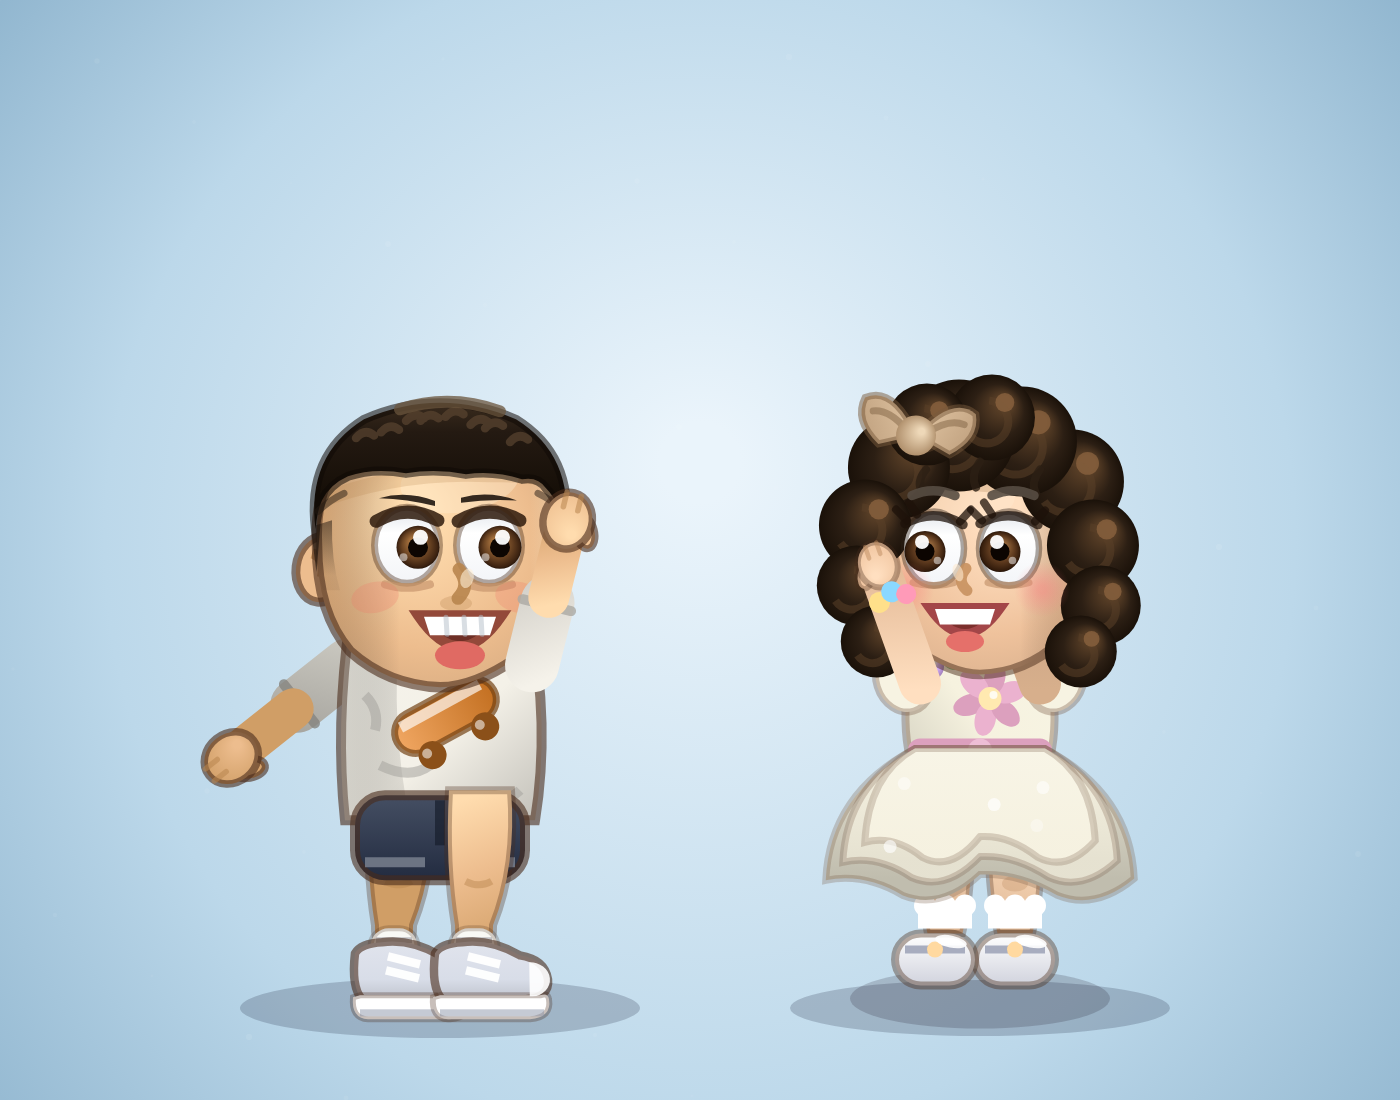
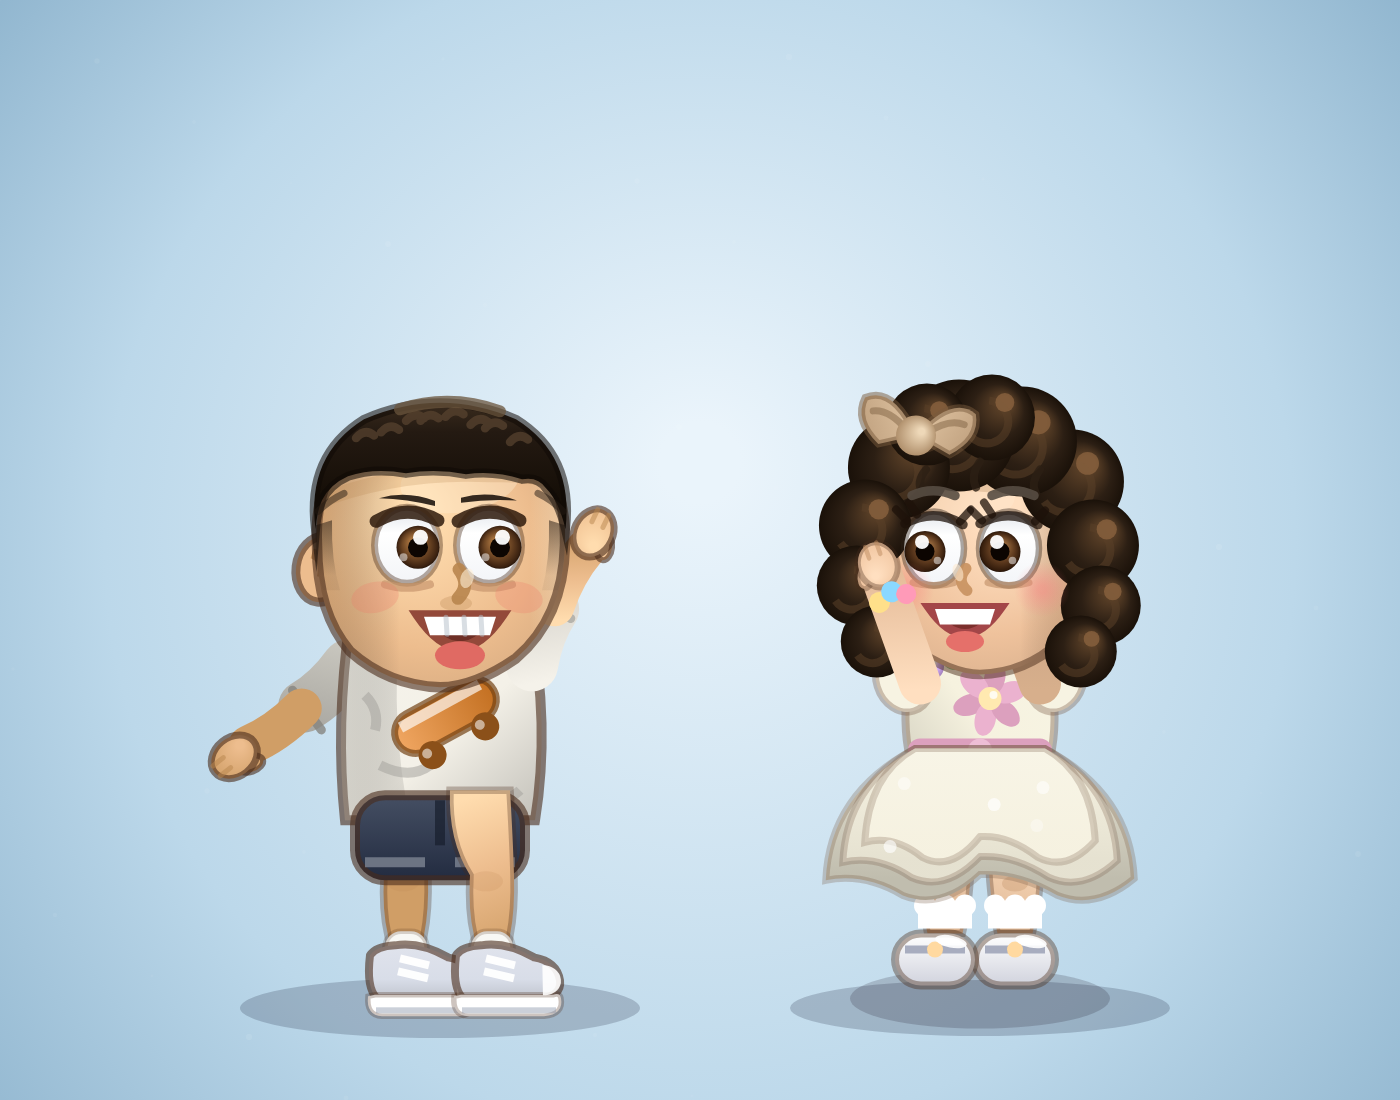
Limbs v4: natural rest pose, elbow and knee joints
- Idle arms hang nearly vertical beside the torso (was a splayed
  scarecrow stance), with breathing sway
- Arms rebuilt as curved two-segment paths: sleeve bows slightly
  outward, forearm curves back under the shoulder (elbow), vertical
  oval hands with integrated thumb and two finger creases
- Legs rebuilt with a knee joint: thigh angles slightly forward,
  shin returns to a rounded ankle; consistent forward ankle offsets
  so the feet stay separated instead of colliding mid-stance
- Soft knee shading only (removed crease line), snug sock cuffs,
  slimmer sculpted sneakers aligned to the ankle
- Raised/celebration arm angles widened past the head silhouette;
  raised arms render behind the head, only attack/shoot/slam/dash
  render in front

Claude-Session: https://claude.ai/code/session_01WV3PCMXxFaSr6jYfzUPyqs

Changed region(s): [[0.2457, 0.7418, 0.3993, 0.9273], [0.3379, 0.4327, 0.4607, 0.6182], [0.1229, 0.5873, 0.2457, 0.7109]]

diff --git a/js/game/characters.js b/js/game/characters.js
@@ -40,9 +40,8 @@ window.RN = window.RN || {};
       case 'idle':
         p.breath = s(t * 2.1) * 0.5 + 0.5;
         p.bob = s(t * 2.1) * 1.3;
-        // ذراعان منفرجتان قليلًا عن الجسم مع تأرجح التنفس
-        // (الزاوية السالبة تلف الذراع الأمامية للخارج)
-        p.armA = -(s(t * 2.1) * 0.05 + 0.3); p.armB = s(t * 2.1) * 0.05 + 0.3;
+        // ذراعان تتدليان عموديًا بجوار الجسم مع تأرجح تنفس خفيف
+        p.armA = -(s(t * 2.1) * 0.04 + 0.09); p.armB = s(t * 2.1) * 0.04 + 0.09;
         if ((t % 3.4) > 3.25) p.eyes = 'blink';
         break;
       case 'walk':
@@ -65,13 +64,10 @@ window.RN = window.RN || {};
       case 'fall':
         p.legA = 0.3; p.legB = -0.25; p.armA = -2.2; p.armB = -2.2; p.mouth = 'open'; p.hairSway = -1; break;
       case 'doubleJump':
-        p.armFront = true;
         p.legA = 0.9; p.legB = -0.9; p.armA = -2.8; p.armB = 2.8; p.mouth = 'open'; p.hairSway = -0.8; break;
       case 'wallSlide':
-        p.armFront = true;
         p.legA = 0.4; p.legB = 0.2; p.armA = -1.6; p.armB = 0.3; p.lean = -0.15; p.hairSway = -0.5; break;
       case 'climb':
-        p.armFront = true;
         p.legA = s(t * 7) * 0.5; p.legB = -p.legA;
         p.armA = -2.6 + s(t * 7) * 0.4; p.armB = -2.6 - s(t * 7) * 0.4; break;
       case 'dash':
@@ -90,26 +86,21 @@ window.RN = window.RN || {};
         p.armA = -1.57; p.armB = 0.3; p.lean = 0.08; p.mouth = 'grit'; break;
       case 'slam':
         p.armFront = true;
-        p.legA = 0.8; p.legB = 0.8; p.armA = -2.9; p.armB = -2.9; p.mouth = 'grit'; p.hairSway = -1.2; break;
+        p.legA = 0.8; p.legB = 0.8; p.armA = -2.8; p.armB = -2.8; p.mouth = 'grit'; p.hairSway = -1.2; break;
       case 'glide':
-        p.armFront = true;
-        p.legA = 0.35; p.legB = 0.15; p.armA = -3.0; p.armB = -3.0; p.mouth = 'open'; p.hairSway = -0.7; break;
+        p.legA = 0.35; p.legB = 0.15; p.armA = -2.85; p.armB = -2.85; p.mouth = 'open'; p.hairSway = -0.7; break;
       case 'hurt':
-        p.armFront = true;
         p.legA = -0.4; p.legB = 0.5; p.armA = -2.0; p.armB = 2.0; p.lean = -0.25; p.mouth = 'sad'; p.eyes = 'shut'; break;
       case 'death':
-        p.armFront = true;
         p.crouch = 0.7; p.armA = 0.9; p.armB = -0.9; p.mouth = 'sad'; p.eyes = 'shut'; break;
       case 'victory': {
-        p.armFront = true;
         const hop = Math.abs(s(t * 6)) * 5;
-        p.bob = -hop; p.armA = -2.9 + s(t * 6) * 0.2; p.armB = -2.9 - s(t * 6) * 0.2;
+        p.bob = -hop; p.armA = -2.74 + s(t * 6) * 0.15; p.armB = -2.74 - s(t * 6) * 0.15;
         p.legA = s(t * 6) * 0.2; p.mouth = 'grin';
         break;
       }
       case 'celebrate':
-        p.armFront = true;
-        p.armA = -2.9; p.armB = 0.9; p.bob = Math.abs(s(t * 5)) * 3; p.mouth = 'grin'; p.breath = s(t * 2) * 0.5 + 0.5; break;
+        p.armA = -2.7; p.armB = 0.9; p.bob = Math.abs(s(t * 5)) * 3; p.mouth = 'grin'; p.breath = s(t * 2) * 0.5 + 0.5; break;
       default: break;
     }
     return p;
@@ -234,33 +225,31 @@ window.RN = window.RN || {};
     ctx.save();
     ctx.translate(ox, oy);
     ctx.rotate(ang * 0.6);
-    const ax = ang > 0 ? 2.2 : -0.6; // موضع الكاحل
-    // ساق انسيابية: فخذ أعرض ينساب لكاحل أنحف (بلا زوايا)
+    // الكاحل أمام الورك قليلًا دائمًا (يمنع تزاحم القدمين في المنتصف)
+    const ax = front ? 1.2 : 0.6;
+    // ساق بمفصل ركبة: فخذ يميل قليلًا للأمام ثم قصبة تعود للكاحل
     ctx.fillStyle = front ? skinGrad(ctx, -3, 0, 3, 15) : SKIN_SHADE;
     ctx.beginPath();
-    ctx.moveTo(-3.1, -1.5);
-    ctx.quadraticCurveTo(-3.5, 6, ax - 1.9, 12);
-    ctx.quadraticCurveTo(ax - 2.0, 14.6, ax, 14.8);
-    ctx.quadraticCurveTo(ax + 2.0, 14.6, ax + 1.9, 12);
-    ctx.quadraticCurveTo(3.7, 6, 3.1, -1.5);
+    ctx.moveTo(-3.0, -1.5);
+    ctx.quadraticCurveTo(-3.2, 3.5, ax - 2.2, 7);      // خارج الفخذ حتى الركبة
+    ctx.quadraticCurveTo(ax - 2.4, 10.5, ax - 1.8, 13); // قصبة
+    ctx.quadraticCurveTo(ax - 1.7, 14.8, ax, 15);       // كاحل مستدير
+    ctx.quadraticCurveTo(ax + 1.7, 14.8, ax + 1.8, 13);
+    ctx.quadraticCurveTo(ax + 2.3, 10.5, ax + 2.2, 7);
+    ctx.quadraticCurveTo(3.3, 3.5, 3.0, -1.5);
     ctx.closePath();
     ctx.fill();
-    ctx.strokeStyle = 'rgba(74,44,26,0.32)'; ctx.lineWidth = 0.8;
+    ctx.strokeStyle = 'rgba(74,44,26,0.3)'; ctx.lineWidth = 0.75;
     ctx.stroke();
-    // ثنية الركبة: خط رقيق فقط
-    ctx.strokeStyle = U.alpha(SKIN_DEEP, 0.45); ctx.lineWidth = 0.7;
-    ctx.beginPath();
-    ctx.moveTo(ax * 0.4 - 1.2, 7.6);
-    ctx.quadraticCurveTo(ax * 0.4 + 0.2, 8.3, ax * 0.4 + 1.4, 7.6);
-    ctx.stroke();
-    // جورب قصير يلتف حول الكاحل ويلتقي بالحذاء
+    // ظل ركبة ناعم جدًا (بلا خطوط)
+    ctx.fillStyle = U.alpha(SKIN_DEEP, 0.16);
+    ctx.beginPath(); ctx.ellipse(ax * 0.5, 7.6, 1.7, 1.0, 0, 0, 7); ctx.fill();
+    // جورب قصير
     ctx.fillStyle = '#f8f8f4';
-    U.roundRect(ctx, ax - 2.35, 12.3, 4.7, 3.6, 1.9); ctx.fill();
-    ctx.strokeStyle = 'rgba(74,44,26,0.22)'; ctx.lineWidth = 0.6;
-    U.roundRect(ctx, ax - 2.35, 12.3, 4.7, 3.6, 1.9); ctx.stroke();
-    ctx.strokeStyle = 'rgba(150,150,160,0.55)'; ctx.lineWidth = 0.6;
-    ctx.beginPath(); ctx.moveTo(ax - 1.8, 13.5); ctx.lineTo(ax + 1.8, 13.5); ctx.stroke();
-    // حذاء رياضي (يلتقم الكاحل)
+    U.roundRect(ctx, ax - 2.1, 12.6, 4.2, 3.2, 1.7); ctx.fill();
+    ctx.strokeStyle = 'rgba(74,44,26,0.2)'; ctx.lineWidth = 0.55;
+    U.roundRect(ctx, ax - 2.1, 12.6, 4.2, 3.2, 1.7); ctx.stroke();
+    // حذاء رياضي منحوت
     ctx.save();
     ctx.translate(ax, 17);
     const shg = ctx.createLinearGradient(0, -3.5, 0, 3);
@@ -269,39 +258,39 @@ window.RN = window.RN || {};
     shg.addColorStop(1, U.shade(o.shoes, -0.15));
     ctx.fillStyle = shg;
     ctx.beginPath();
-    ctx.moveTo(-3.9, -2.2);
-    ctx.quadraticCurveTo(-4.3, 1.2, -3.2, 2.4);   // كعب
-    ctx.lineTo(5.2, 2.4);
-    ctx.quadraticCurveTo(7.6, 2.2, 7.4, 0.4);     // مقدمة مستديرة
-    ctx.quadraticCurveTo(7.1, -1.6, 4.6, -2.0);
-    ctx.quadraticCurveTo(1.6, -3.7, -1.2, -3.3);  // لسان الحذاء
-    ctx.quadraticCurveTo(-3.3, -3.2, -3.9, -2.2);
+    ctx.moveTo(-3.6, -2.0);
+    ctx.quadraticCurveTo(-4.0, 1.3, -2.9, 2.3);
+    ctx.lineTo(4.8, 2.3);
+    ctx.quadraticCurveTo(7.0, 2.1, 6.8, 0.5);
+    ctx.quadraticCurveTo(6.5, -1.4, 4.2, -1.8);
+    ctx.quadraticCurveTo(1.4, -3.4, -1.1, -3.0);
+    ctx.quadraticCurveTo(-3.0, -2.9, -3.6, -2.0);
     ctx.closePath();
     ctx.fill();
-    ctx.strokeStyle = LINE; ctx.lineWidth = 0.85;
+    ctx.strokeStyle = LINE; ctx.lineWidth = 0.8;
     ctx.stroke();
-    // نعل أبيض مزدوج
+    // نعل أبيض
     ctx.fillStyle = '#ffffff';
     ctx.beginPath();
-    ctx.moveTo(-4.1, 2.2);
-    ctx.quadraticCurveTo(-4.3, 4.3, -2.6, 4.4);
-    ctx.lineTo(5.6, 4.4);
-    ctx.quadraticCurveTo(7.8, 4.2, 7.5, 2.4);
-    ctx.quadraticCurveTo(7.4, 1.7, 6.6, 2.0);
-    ctx.lineTo(-3.4, 2.0);
+    ctx.moveTo(-3.8, 2.1);
+    ctx.quadraticCurveTo(-4.0, 4.0, -2.4, 4.1);
+    ctx.lineTo(5.2, 4.1);
+    ctx.quadraticCurveTo(7.2, 3.9, 6.9, 2.3);
+    ctx.quadraticCurveTo(6.8, 1.7, 6.1, 1.95);
+    ctx.lineTo(-3.1, 1.95);
     ctx.closePath();
     ctx.fill();
-    ctx.strokeStyle = 'rgba(74,44,26,0.3)'; ctx.lineWidth = 0.6;
+    ctx.strokeStyle = 'rgba(74,44,26,0.28)'; ctx.lineWidth = 0.55;
     ctx.stroke();
-    ctx.fillStyle = 'rgba(140,150,170,0.5)';
-    ctx.fillRect(-3.4, 3.4, 10.4, 0.7);
+    ctx.fillStyle = 'rgba(140,150,170,0.45)';
+    ctx.fillRect(-3.0, 3.2, 9.4, 0.6);
     // مقدمة مطاطية + أربطة
     ctx.fillStyle = 'rgba(255,255,255,0.9)';
-    ctx.beginPath(); ctx.ellipse(5.7, 0.4, 1.9, 1.7, 0.15, -1.8, 1.5); ctx.fill();
-    ctx.strokeStyle = 'rgba(255,255,255,0.95)'; ctx.lineWidth = 0.85;
+    ctx.beginPath(); ctx.ellipse(5.2, 0.5, 1.7, 1.5, 0.15, -1.8, 1.5); ctx.fill();
+    ctx.strokeStyle = 'rgba(255,255,255,0.95)'; ctx.lineWidth = 0.8;
     ctx.beginPath();
-    ctx.moveTo(-0.6, -1.9); ctx.lineTo(2.6, -1.1);
-    ctx.moveTo(-0.8, -0.5); ctx.lineTo(2.5, 0.3);
+    ctx.moveTo(-0.6, -1.7); ctx.lineTo(2.3, -1.0);
+    ctx.moveTo(-0.8, -0.4); ctx.lineTo(2.2, 0.3);
     ctx.stroke();
     ctx.restore();
     ctx.restore();
@@ -311,53 +300,62 @@ window.RN = window.RN || {};
     ctx.save();
     ctx.translate(ox, oy);
     ctx.rotate(ang);
-    // كم بحافة مطوية
+    const side = front ? 1 : 1; // الانحناء في فضاء الذراع المحلي
+    // كم القميص: يتقوس قليلًا للخارج
     const sg = ctx.createLinearGradient(-3, 0, 3, 8);
     sg.addColorStop(0, front ? U.shade(o.shirt, 0.1) : U.shade(o.shirt, -0.18));
     sg.addColorStop(1, front ? U.shade(o.shirt, -0.14) : U.shade(o.shirt, -0.32));
     ctx.strokeStyle = sg;
-    ctx.lineWidth = 5.4; ctx.lineCap = 'round';
-    ctx.beginPath(); ctx.moveTo(0, 0); ctx.lineTo(0, 6.5); ctx.stroke();
+    ctx.lineWidth = 5.2; ctx.lineCap = 'round';
+    ctx.beginPath();
+    ctx.moveTo(0, 0);
+    ctx.quadraticCurveTo(0.9 * side, 3.2, 0.5 * side, 6.0);
+    ctx.stroke();
+    // حافة الكم
     ctx.strokeStyle = front ? U.alpha(U.shade(o.shirt, -0.3), 0.8) : U.alpha(U.shade(o.shirt, -0.45), 0.8);
-    ctx.lineWidth = 1;
-    ctx.beginPath(); ctx.moveTo(-2.5, 6.2); ctx.lineTo(2.5, 6.2); ctx.stroke();
-    // ساعد ويد
-    ctx.strokeStyle = front ? skinGrad(ctx, -2, 7, 2, 16) : SKIN_SHADE;
-    ctx.lineWidth = 4.1; ctx.beginPath(); ctx.moveTo(0, 7); ctx.lineTo(0, 13.6); ctx.stroke();
-    // كف كرتونية نظيفة: قفاز بيضاوي بإبهام مدمج وخطي أصابع
+    ctx.lineWidth = 0.9;
+    ctx.beginPath(); ctx.moveTo(-2 + 0.5 * side, 5.9); ctx.lineTo(2.9 + 0.5 * side, 6.1); ctx.stroke();
+    // الساعد: انحناءة مرفق خفيفة تعيد اليد تحت الكتف
+    ctx.strokeStyle = front ? skinGrad(ctx, -2, 6, 2, 14) : SKIN_SHADE;
+    ctx.lineWidth = 4.0; ctx.lineCap = 'round';
+    ctx.beginPath();
+    ctx.moveTo(0.5 * side, 6.3);
+    ctx.quadraticCurveTo(0.9 * side, 9.8, 0.1 * side, 12.8);
+    ctx.stroke();
+    // اليد: بيضاوية عمودية بإبهام مدمج وخطي أصابع (تشير للأسفل)
     ctx.save();
-    ctx.translate(0, 14.4);
-    const thx = front ? -1.9 : 1.9; // الإبهام نحو الجسم
-    const hg = ctx.createRadialGradient(-0.7, -0.8, 0.4, 0, 0.3, 3.4);
+    ctx.translate(0.1 * side, 14.3);
+    const hg = ctx.createRadialGradient(-0.6, -0.9, 0.4, 0, 0.2, 3.0);
     hg.addColorStop(0, front ? SKIN_HI : SKIN);
     hg.addColorStop(1, front ? SKIN : SKIN_SHADE);
-    // الإبهام أولًا (يندمج تحت الكف)
+    // الإبهام نحو الجسم (يندمج بالكف)
+    const thx = front ? -1.55 : 1.55;
     ctx.fillStyle = hg;
-    ctx.beginPath(); ctx.ellipse(thx, -0.2, 1.0, 1.7, front ? -0.5 : 0.5, 0, 7); ctx.fill();
+    ctx.beginPath(); ctx.ellipse(thx, -0.5, 0.8, 1.35, front ? -0.35 : 0.35, 0, 7); ctx.fill();
+    ctx.strokeStyle = LINE; ctx.lineWidth = 0.6;
+    ctx.beginPath(); ctx.ellipse(thx, -0.5, 0.8, 1.35, front ? -0.35 : 0.35, 0, 7); ctx.stroke();
+    // الكف عمودية (أطول من عرضها)
+    ctx.fillStyle = hg;
+    ctx.beginPath(); ctx.ellipse(0, 0.3, 1.95, 2.5, 0, 0, 7); ctx.fill();
     ctx.strokeStyle = LINE; ctx.lineWidth = 0.7;
-    ctx.beginPath(); ctx.ellipse(thx, -0.2, 1.0, 1.7, front ? -0.5 : 0.5, 0, 7); ctx.stroke();
-    // الكف
-    ctx.fillStyle = hg;
-    ctx.beginPath(); ctx.ellipse(0, 0.5, 2.45, 2.85, 0, 0, 7); ctx.fill();
-    ctx.strokeStyle = LINE; ctx.lineWidth = 0.75;
-    ctx.beginPath(); ctx.ellipse(0, 0.5, 2.45, 2.85, 0, 0, 7); ctx.stroke();
-    // خطا أصابع قصيران من الأسفل
-    ctx.strokeStyle = U.alpha(SKIN_DEEP, 0.55); ctx.lineWidth = 0.55;
+    ctx.beginPath(); ctx.ellipse(0, 0.3, 1.95, 2.5, 0, 0, 7); ctx.stroke();
+    // خطا أصابع
+    ctx.strokeStyle = U.alpha(SKIN_DEEP, 0.5); ctx.lineWidth = 0.5;
     ctx.beginPath();
-    ctx.moveTo(-0.75, 3.2); ctx.lineTo(-0.75, 1.7);
-    ctx.moveTo(0.75, 3.25); ctx.lineTo(0.75, 1.75);
+    ctx.moveTo(-0.62, 2.55); ctx.lineTo(-0.62, 1.2);
+    ctx.moveTo(0.62, 2.6); ctx.lineTo(0.62, 1.25);
     ctx.stroke();
     ctx.restore();
-    // شفرة الطاقة
+    // شفرة الطاقة عند الهجوم
     if (front && p.armPose === 'swing') {
       ctx.globalCompositeOperation = 'screen';
-      const grad = ctx.createLinearGradient(0, 16, 0, 46);
+      const grad = ctx.createLinearGradient(0, 15, 0, 45);
       grad.addColorStop(0, fx && fx.power2x ? 'rgba(255,90,138,0.95)' : 'rgba(90,216,255,0.95)');
       grad.addColorStop(1, 'rgba(90,216,255,0)');
       ctx.strokeStyle = grad; ctx.lineWidth = 8;
-      ctx.beginPath(); ctx.moveTo(0, 17); ctx.lineTo(0, 44); ctx.stroke();
+      ctx.beginPath(); ctx.moveTo(0, 16); ctx.lineTo(0, 43); ctx.stroke();
       ctx.strokeStyle = 'rgba(255,255,255,0.95)'; ctx.lineWidth = 2.5;
-      ctx.beginPath(); ctx.moveTo(0, 17); ctx.lineTo(0, 39); ctx.stroke();
+      ctx.beginPath(); ctx.moveTo(0, 16); ctx.lineTo(0, 38); ctx.stroke();
       ctx.globalCompositeOperation = 'source-over';
     }
     ctx.restore();
